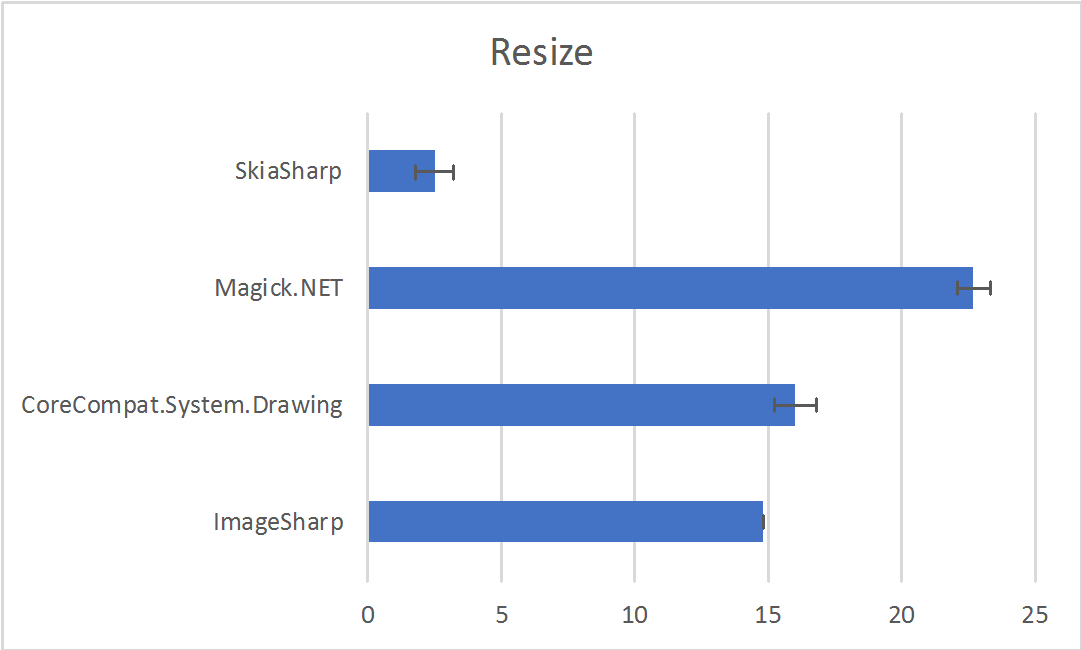
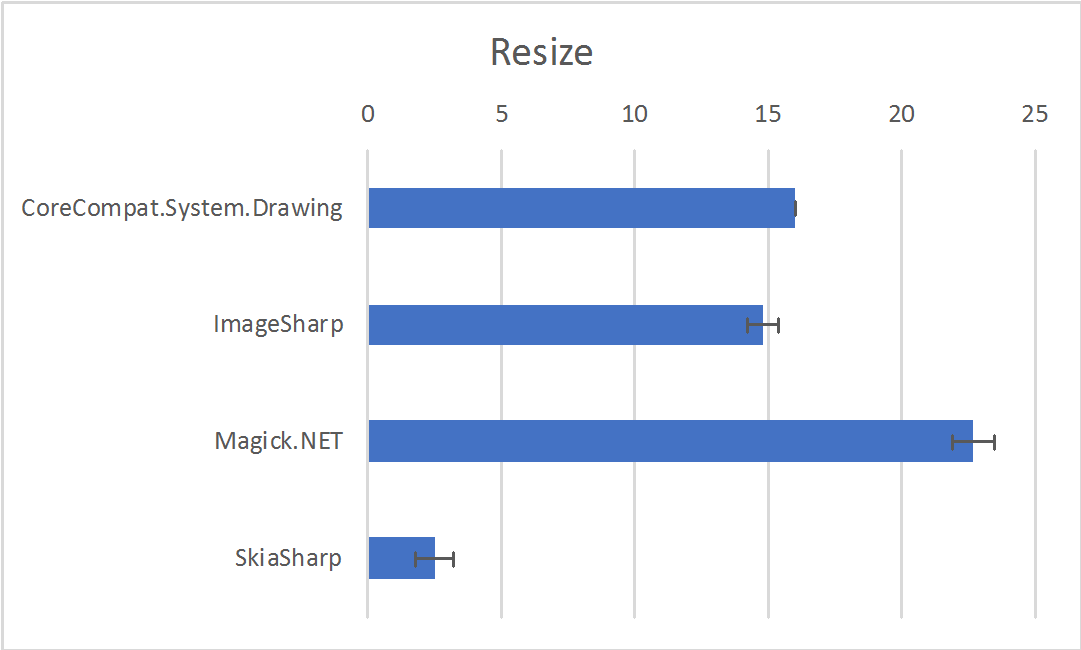
Address feedback.

diff --git a/2017/01-Jan/core-image-processing/core-image-processing.md b/2017/01-Jan/core-image-processing/core-image-processing.md
@@ -6,14 +6,16 @@ Image processing, and in particular image resizing, is a common requirement for 
 CoreCompat.System.Drawing
 -------------------------
 
-The easiest way to process images with .NET Framework is to use [the built-in System.Drawing APIs](https://msdn.microsoft.com/en-us/library/mt481535(v=vs.110).aspx). The implementation in .NET Framework is however relying on the GDI+ features in Windows, and was not included in .NET Core, which needs to be cross-platform.
+If you have existing code relying on System.Drawing, using this library is clearly your fastest path to .NET Core and cross-platform bliss: the performance and quality are fine, and the API is exactly the same. [The built-in System.Drawing APIs](https://msdn.microsoft.com/en-us/library/mt481535(v=vs.110).aspx) are the easiest way to process images with .NET Framework, but they rely on the GDI+ features from Windows, which are not included in .NET Core, and are a client technology that was never designed for multi-threaded server environments. There is going to be locking issues that may make this solution unsuitable for your applications.
 
-CoreCompat.System.Drawing is a .NET Core port of [the Mono implementation of System.Drawing](https://github.com/mono/mono/tree/master/mcs/class/System.Drawing).
+[`CoreCompat.System.Drawing`](https://github.com/CoreCompat/CoreCompat) is a .NET Core port of [the Mono implementation of System.Drawing](https://github.com/mono/mono/tree/master/mcs/class/System.Drawing). Like `System.Drawing` in .NET Framework, and like its Mono implementation, [`CoreCompat.System.Drawing`](https://github.com/CoreCompat/CoreCompat) also relies on GDI+ on Windows. Caution is therefore advised, for the same reasons.
 
-If you have existing code relying on System.Drawing, using this library is clearly your fastest path to .NET Core and cross-platform bliss: the performance and quality are fine, and the API is exactly the same. Be careful however when using the library cross-platform, to include the [runtime.osx.10.10-x64.CoreCompat.System.Drawing](https://www.nuget.org/packages/runtime.osx.10.10-x64.CoreCompat.System.Drawing) and / or [runtime.linux-x64.CoreCompat.System.Drawing](https://www.nuget.org/packages/runtime.linux-x64.CoreCompat.System.Drawing/1.0.0-beta009) packages. Another important consideration is that on Windows, like `System.Drawing`, and like the Mono implementation, `CoreCompat.System.Drawing` still relies on GDI+, which is a client technology that was never designed for multi-threaded server environments. There is going to be locking issues that may make this solution unsuitable for your applications.
+Also be careful when using the library cross-platform, to include the [runtime.osx.10.10-x64.CoreCompat.System.Drawing](https://www.nuget.org/packages/runtime.osx.10.10-x64.CoreCompat.System.Drawing) and / or [runtime.linux-x64.CoreCompat.System.Drawing](https://www.nuget.org/packages/runtime.linux-x64.CoreCompat.System.Drawing/1.0.0-beta009) packages.
 
 ```csharp
 using System.Drawing;
+
+const int size = 150;
 
 using (var image = new Bitmap(System.Drawing.Image.FromFile(inputPath)))
 {
@@ -49,9 +51,9 @@ using (var image = new Bitmap(System.Drawing.Image.FromFile(inputPath)))
 ImageSharp
 ----------
 
-ImageSharp is a brand new, pure managed code, and cross-platform image processing library. Its performance is not as good as that of libraries relying on native OS-specific dependencies, but it remains very reasonable. Its only dependency is .NET itself, which makes it extremely portable: no additional package to install, just reference ImageSharp itself, and you're done.
+[ImageSharp](https://github.com/JimBobSquarePants/ImageSharp) is a brand new, pure managed code, and cross-platform image processing library. Its performance is not as good as that of libraries relying on native OS-specific dependencies, but it remains very reasonable. Its only dependency is .NET itself, which makes it extremely portable: no additional package to install, just reference [ImageSharp](https://github.com/JimBobSquarePants/ImageSharp) itself, and you're done.
 
-Be aware that the version of ImageSharp that shows in NuGet is a placeholder, and it's necessary for now to get the actual bits from a [MyGet](https://www.myget.org) feed. This can be done by adding the following `NuGet.config` to the root directory of the project:
+If you decide to use [ImageSharp](https://github.com/JimBobSquarePants/ImageSharp), don't include the package that shows on NuGet: that's going to be an empty placeholder until the first official release of ImageSharp ships. For the moment, you need to get a nightly build from a [MyGet](https://www.myget.org) feed. This can be done by adding the following `NuGet.config` to the root directory of the project:
 
 ```xml
 <?xml version="1.0" encoding="utf-8"?>
@@ -64,6 +66,8 @@ Be aware that the version of ImageSharp that shows in NuGet is a placeholder, an
 
 ```csharp
 using ImageSharp;
+
+const int size = 150;
 
 Configuration.Default.AddImageFormat(new JpegFormat());
 
@@ -82,7 +86,7 @@ using (var input = File.OpenRead(inputPath))
 }
 ```
 
-For a new codebase, the library is surprisingly complete. It includes all the filters you'd expect to treat images, and even includes very comprehensive support for reading and writing [EXIF tags](https://en.wikipedia.org/wiki/Exif) that is shared with ImageMagick.NET:
+For a new codebase, the library is surprisingly complete. It includes all the filters you'd expect to treat images, and even includes very comprehensive support for reading and writing [EXIF tags](https://en.wikipedia.org/wiki/Exif) that is shared with Magick.NET:
 
 ```csharp
 var exif = image.ExifProfile;
@@ -103,14 +107,16 @@ exif.SetValue(ImageSharpExifTag.Copyright, copyright);
 Magick.NET
 ----------
 
-Magick.NET is the .NET wrapper for the popular [ImageMagick](http://www.imagemagick.org/script/index.php) library. ImageMagick is an open-source, cross-platform library that focuses on image quality, and on a very wide choice of supported image formats. It also has the same support for EXIF as ImageSharp.
+[Magick.NET](https://magick.codeplex.com/) is the .NET wrapper for the popular [ImageMagick](http://www.imagemagick.org/script/index.php) library. ImageMagick is an open-source, cross-platform library that focuses on image quality, and on a very wide choice of supported image formats. It also has the same support for EXIF as ImageSharp.
 
-The .NET Core build of ImageMagick currently only supports Windows. [The author of the library](https://github.com/dlemstra) is [looking for help converting build scripts](https://github.com/dlemstra/Magick.NET/issues/16) for the native ImageMagick dependency, so if you have some expertise building native libraries on Mac or Linux, this is a great opportunity to help an awesome project.
+The .NET Core build of ImageMagick currently only supports Windows. The author of the library, [Dirk Lemstra]](https://github.com/dlemstra) is [looking for help converting build scripts](https://github.com/dlemstra/Magick.NET/issues/16) for the native ImageMagick dependency, so if you have some expertise building native libraries on Mac or Linux, this is a great opportunity to help an awesome project.
 
-Magick.NET has the best image quality of all the libraries discussed in this post, as you can see in the samples below, and it performs relatively well. It also has a very complete API, and the best support for exotic file formats.
+[Magick.NET](https://magick.codeplex.com/) has the best image quality of all the libraries discussed in this post, as you can see in the samples below, and it performs relatively well. It also has a very complete API, and the best support for exotic file formats.
 
 ```csharp
 using ImageMagick;
+
+const int size = 150;
 
 using (var image = new MagickImage(inputPath))
 {
@@ -120,18 +126,20 @@ using (var image = new MagickImage(inputPath))
 }
 ```
 
-* NuGet: [Magick.NET.Core-Q8](https://www.nuget.org/packages/Magick.NET.Core-Q8/)`
+* NuGet: [Magick.NET.Core-Q8](https://www.nuget.org/packages/Magick.NET.Core-Q8/)
 * CodePlex: [Magick.NET](https://magick.codeplex.com/)
 
 SkiaSharp
 ---------
 
-I'm including SkiaSharp in this post because it's very promising, and despite the fact that [it is not yet](https://github.com/mono/SkiaSharp/issues/20) [compatible with .NET Core](https://github.com/mono/SkiaSharp/issues/111). It's by far the fastest library featured here.
+[SkiaSharp](https://github.com/mono/SkiaSharp/) is the .NET wrapper for [Google's Skia cross-platform 2D graphics library](https://skia.org/).
 
-SkiaSharp is the .NET wrapper for [Google's Skia cross-platform 2D graphics library](https://skia.org/).
+I'm including [SkiaSharp](https://github.com/mono/SkiaSharp/) in this post because it's very promising, despite the fact that [it is not yet](https://github.com/mono/SkiaSharp/issues/20) [compatible with .NET Core](https://github.com/mono/SkiaSharp/issues/111). It's by far the fastest library featured here.
 
 ```csharp
 using SkiaSharp;
+
+const int size = 150;
 
 using (var input = File.OpenRead(inputPath))
 {
@@ -188,15 +196,17 @@ I ran the benchmarks on Windows, on a HP Z420 workstation with a quad-core Xeon 
 
 |                   Library | Load, resize, save (ms) | Resize (ms) | Size (kB) |
 |---------------------------|------------------------:|------------:|----------:|
-|                ImageSharp |                  63 ± 1 |  14.8 ± 0.8 |      16.5 |
 | CoreCompat.System.Drawing |                  34 ± 1 |  16.0 ± 0.6 |       3.9 |
+|                ImageSharp |                  63 ± 1 |  14.8 ± 0.8 |      16.5 |
 |                Magick.NET |                  62 ± 1 |  22.7 ± 0.7 |       8.1 |
 |                 SkiaSharp |                  16 ± 1 |   2.5 ± 0.1 |       4.0 |
+
+For all three metrics, lower is better.
 
 Quality comparison
 ------------------
 
-Here are the resized images. As you can see, the quality varies a lot from one image to the next, and between libraries. You should make a choice based on the constraints of your project, and on the performance vs. quality trade-offs you're willing to make.
+Here are the resized images. As you can see, the quality varies a lot from one image to the next, and between libraries. Some images show dramatic differences i You should make a choice based on the constraints of your project, and on the performance vs. quality trade-offs you're willing to make.
 
 | ImageSharp | CoreCompat.System.Drawing | Magick.NET | SkiaSharp |
 |:----------:|:-------------------------:|:----------:|:---------:|
@@ -216,16 +226,25 @@ Here are the resized images. As you can see, the quality varies a lot from one i
 Conclusions
 -----------
 
-Image processing on .NET Core is not only possible on .NET Core, there is in fact a good choice of available libraries, that can fit different requirements.
+There is today a good choice of libraries for image processing on .NET Core, that can fit different requirements, with even more great choices coming in the near future.
 
-If performance is your priority, for instance, SkiaSharp, when available on .NET Core, will be your best choice. CoreCompat.System.Drawing would be a good choice in the meantime if the possible lock issues in server scenarios are not a showstopper for your application.
+If performance is your priority, CoreCompat.System.Drawing is a good choice today if the possible lock issues in Windows server scenarios are not a showstopper for your application. SkiaSharp, when available on .NET Core, will be a fantastic choice.
 
 If quality or file type support is your priority, Magick.NET is the clear winner. Cross-platform support is not quite there yet, however, but [you can help](https://github.com/dlemstra/Magick.NET/issues/16).
 
 Finally, the only pure managed code available at this point, ImageSharp, is an excellent choice. Its performance is close to that of Magick.NET, and the fact that it has no native dependencies means that the library is guaranteed to work everywhere .NET Core works.
 
+Acknowledgements
+----------------
+
+All four libraries in this post are open-source, and only exists thanks to the talent and generosity of their authors, contributors and maintainers. In particular,
+
+* [Frederik Carlier](https://github.com/qmfrederik) wrote [`CoreCompat.System.Drawing`](https://github.com/CoreCompat/CoreCompat).
+* [James Jackson South](https://github.com/jimbobsquarepants) wrote [ImageSharp](https://github.com/JimBobSquarePants/ImageSharp). James was extremely helpful while I was preparing this post, and even contributed sample code.
+* [Dirk Lemstra](http://www.codeplex.com/site/users/view/dlemstra) wrote [Magick.NET](http://magick.codeplex.com/). Dirk was also super-patient and nice, and helped me fix some performance issues I had on my benchmark machine. He also fixed my sample code.
+* [Matthew Leibowitz](https://github.com/mattleibow) maintains [SkiaSharp](https://github.com/mono/SkiaSharp/).
+
 Sample code
 -----------
 
 My sample code [can be found on GitHub](https://github.com/bleroy/core-imaging-playground). The repository includes [the sample images](https://github.com/bleroy/core-imaging-playground/tree/master/images) I've been using in this post.
-
